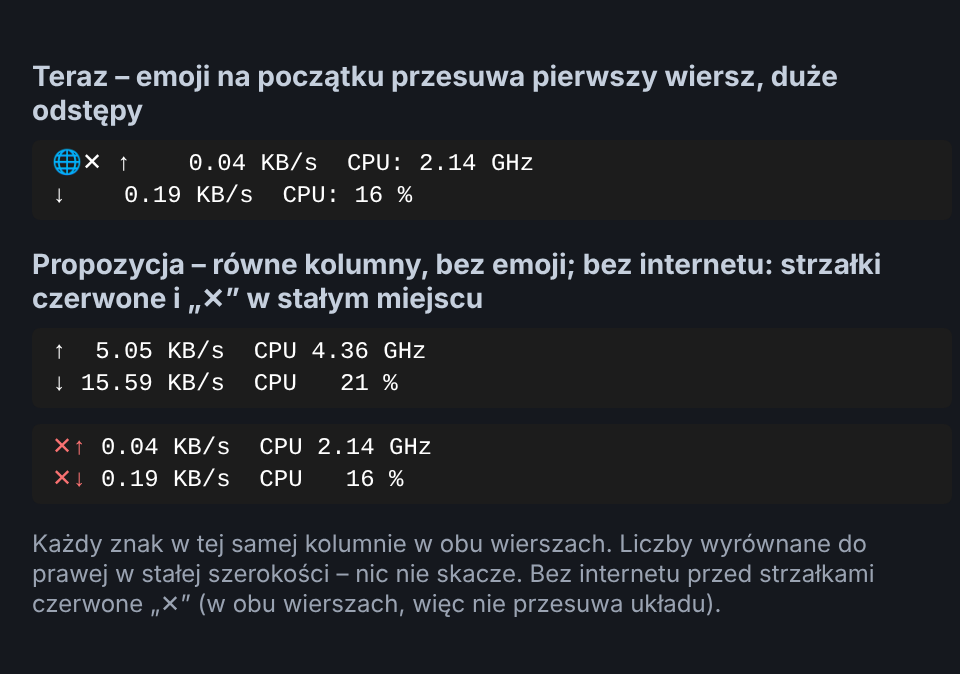
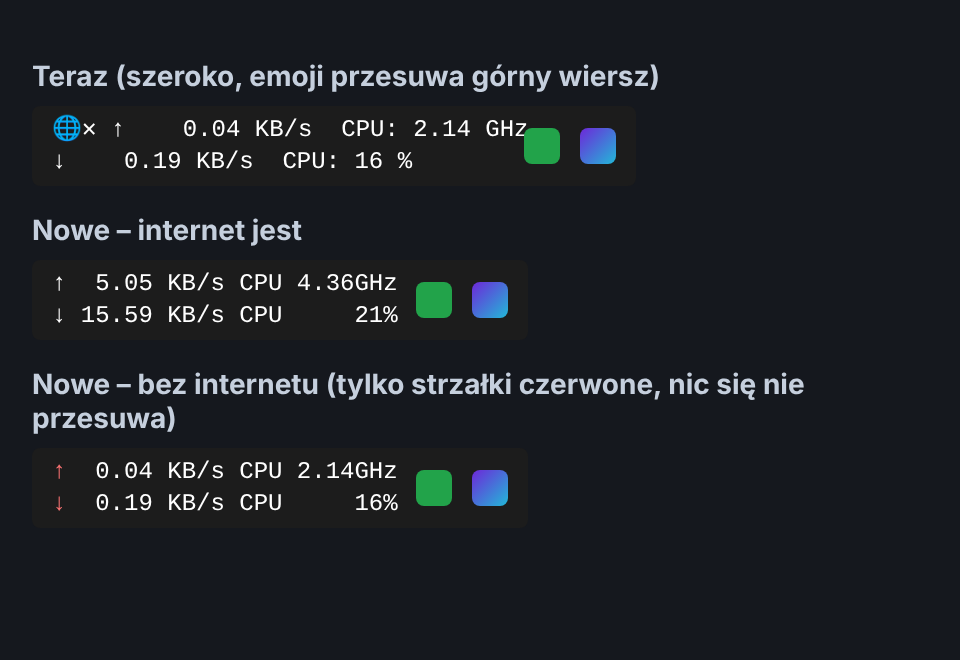
Velivo Monitor: napis na pasku węższy, równe kolumny, bez internetu tylko czerwone strzałki (górny wiersz się nie przesuwa)
Claude-Session: https://claude.ai/code/session_01RCtN5AVBSpJ7VcZz1rMB9B

Changed region(s): [[0.0312, 0.3333, 0.9375, 0.9091], [0.0312, 0.0909, 0.875, 0.2727], [0.125, 0.1818, 0.6562, 0.303]]

diff --git a/dokumentacja/makieta-monitor-pasek.html b/dokumentacja/makieta-monitor-pasek.html
@@ -1,16 +1,14 @@
 <!doctype html><html lang="pl"><head><meta charset="utf-8"><title>Pasek Monitora</title>
 <style>body{background:#15181e;color:#e8ebf0;font:14px "Segoe UI",sans-serif;margin:0;padding:16px}
-h2{font-size:14px;margin:14px 0 6px;color:#c5cfdd}.bar{background:#1c1c1c;height:40px;display:flex;align-items:center;gap:12px;padding:0 10px;width:440px;border-radius:4px}
-.t{font:12px Consolas,monospace;line-height:16px;white-space:pre;color:#fff}.r{color:#f87171}.g{color:#8b95a5}
-.ic{width:20px;height:20px;border-radius:5px}</style></head><body>
-<h2>Teraz – emoji na początku przesuwa pierwszy wiersz, duże odstępy</h2>
-<div class="bar"><div class="t">🌐✕ ↑    0.04 KB/s  CPU: 2.14 GHz
-↓    0.19 KB/s  CPU: 16 %</div></div>
-<h2>Propozycja – równe kolumny, bez emoji; bez internetu: strzałki czerwone i „✕” w stałym miejscu</h2>
-<div class="bar"><div class="t">↑  5.05 KB/s  CPU 4.36 GHz
-↓ 15.59 KB/s  CPU   21 %</div></div>
-<div style="height:8px"></div>
-<div class="bar"><div class="t"><span class="r">✕↑</span> 0.04 KB/s  CPU 2.14 GHz
-<span class="r">✕↓</span> 0.19 KB/s  CPU   16 %</div></div>
-<p style="color:#9aa3b2;font-size:12px;max-width:440px">Każdy znak w tej samej kolumnie w obu wierszach. Liczby wyrównane do prawej w stałej szerokości – nic nie skacze. Bez internetu przed strzałkami czerwone „✕” (w obu wierszach, więc nie przesuwa układu).</p>
+h2{font-size:14px;margin:14px 0 6px;color:#c5cfdd}.bar{background:#1c1c1c;height:40px;display:flex;align-items:center;gap:10px;padding:0 10px;border-radius:4px;width:fit-content}
+.t{font:12px Consolas,"Courier New",monospace;line-height:16px;white-space:pre;color:#fff;width:172px}.r{color:#f87171}.i{width:18px;height:18px;border-radius:4px;background:#22a34a}.v{width:18px;height:18px;border-radius:4px;background:linear-gradient(135deg,#6d28d9,#22b8d8)}</style></head><body>
+<h2>Teraz (szeroko, emoji przesuwa górny wiersz)</h2>
+<div class="bar"><div class="t" style="width:226px">🌐✕ ↑    0.04 KB/s  CPU: 2.14 GHz
+↓    0.19 KB/s  CPU: 16 %</div><div class="i"></div><div class="v"></div></div>
+<h2>Nowe – internet jest</h2>
+<div class="bar"><div class="t">↑  5.05 KB/s CPU 4.36GHz
+↓ 15.59 KB/s CPU     21%</div><div class="i"></div><div class="v"></div></div>
+<h2>Nowe – bez internetu (tylko strzałki czerwone, nic się nie przesuwa)</h2>
+<div class="bar"><div class="t"><span class="r">↑</span>  0.04 KB/s CPU 2.14GHz
+<span class="r">↓</span>  0.19 KB/s CPU     16%</div><div class="i"></div><div class="v"></div></div>
 </body></html>

diff --git a/velivo-monitor/Monitor.cs b/velivo-monitor/Monitor.cs
@@ -115,7 +115,7 @@ namespace VelivoMonitor
             bool light = false;
             try { using var k = Microsoft.Win32.Registry.CurrentUser.OpenSubKey(@"Software\Microsoft\Windows\CurrentVersion\Themes\Personalize"); light = (k?.GetValue("SystemUsesLightTheme") as int?) == 1; } catch (Exception) { }
             barTxt = new TextBlock { FontFamily = new FontFamily("Consolas"), FontSize = 12, Foreground = light ? Brushes.Black : Brushes.White, VerticalAlignment = VerticalAlignment.Center, Margin = new Thickness(4, 0, 4, 0) };
-            bar = new Window { Title = "Velivo Monitor – pasek", WindowStyle = WindowStyle.None, ResizeMode = ResizeMode.NoResize, AllowsTransparency = true, Background = new SolidColorBrush(Color.FromArgb(1, 0, 0, 0)), ShowInTaskbar = false, Topmost = true, Width = 226, Height = 40, Content = barTxt,   /* stała szerokość - napis nie skacze */
+            bar = new Window { Title = "Velivo Monitor – pasek", WindowStyle = WindowStyle.None, ResizeMode = ResizeMode.NoResize, AllowsTransparency = true, Background = new SolidColorBrush(Color.FromArgb(1, 0, 0, 0)), ShowInTaskbar = false, Topmost = true, Width = 172, Height = 40, Content = barTxt,   /* stała szerokość - napis nie skacze */
                 ToolTip = "Velivo Monitor – przeciągnij w lewo/prawo, aby przesunąć; prawy przycisk – menu" };
             bar.ContextMenu = Menu();
             int dragX = 0; double dragOff = 0; bool drag = false;   // przesuwanie wzdłuż paska: zapamiętany odstęp od zegara
@@ -123,6 +123,17 @@ namespace VelivoMonitor
             bar.MouseMove += (s, e) => { if (!drag) return; set["pasek-odstep"] = Math.Max(0, dragOff + (dragX - System.Windows.Forms.Cursor.Position.X)).ToString(System.Globalization.CultureInfo.InvariantCulture); PlaceBar(); };
             bar.MouseLeftButtonUp += (s, e) => { if (!drag) return; drag = false; bar.ReleaseMouseCapture(); Put("pasek-odstep", GetD("pasek-odstep", 0)); };
             bar.Show(); PlaceBar();
+        }
+        // napis na pasku: równe kolumny w obu wierszach (czcionka o stałej szerokości), bez internetu - strzałki czerwone (nic się nie przesuwa)
+        void BarText()
+        {
+            bool off = Internet.Wylaczony(); var arrow = off ? (Brush)new SolidColorBrush(Color.FromRgb(0xF8, 0x71, 0x71)) : barTxt.Foreground;
+            string r1 = Rate(Up).Trim().PadLeft(10), r2 = Rate(Down).Trim().PadLeft(10);
+            string c1 = (Ghz > 0 ? Ghz.ToString("0.00", System.Globalization.CultureInfo.InvariantCulture) + "GHz" : "–").PadLeft(7), c2 = (Cpu.ToString("0") + "%").PadLeft(7);
+            barTxt.Inlines.Clear();
+            barTxt.Inlines.Add(new System.Windows.Documents.Run("↑") { Foreground = arrow }); barTxt.Inlines.Add(new System.Windows.Documents.Run(r1 + " CPU " + c1 + "\n"));
+            barTxt.Inlines.Add(new System.Windows.Documents.Run("↓") { Foreground = arrow }); barTxt.Inlines.Add(new System.Windows.Documents.Run(r2 + " CPU " + c2));
+            bar.ToolTip = (off ? "Internet WYŁĄCZONY (sieć domowa działa)\n" : "") + "Velivo Monitor – przeciągnij w lewo/prawo, aby przesunąć; prawy przycisk – menu";
         }
         void PlaceBar()
         {
@@ -286,7 +297,7 @@ namespace VelivoMonitor
             {
                 Sample();
                 TrayIcon();
-                if (bar != null) { barTxt.Text = (Internet.Wylaczony() ? "🌐✕ " : "") + "↑ " + Rate(Up) + "  CPU: " + GhzText + "\n↓ " + Rate(Down) + "  CPU: " + Cpu.ToString("0") + " %"; PlaceBar(); }   // co sekundę z powrotem nad paskiem (kliknięcie w pasek go przykrywa)
+                if (bar != null) { BarText(); PlaceBar(); }   // co sekundę z powrotem nad paskiem (kliknięcie w pasek go przykrywa)
                 if (wid != null) { DrawGraph(); Val(wUp, "↑ ", Up, maxUp); Val(wDown, "↓ ", Down, maxDown); wCpu.Text = "CPU " + GhzText + " · " + Cpu.ToString("0") + " %"; bool off = Internet.Wylaczony(); wNet.Text = off ? "bez internetu" : "internet"; wNet.Foreground = off ? new SolidColorBrush(Color.FromRgb(0xFC, 0xA5, 0xA5)) : new SolidColorBrush(Color.FromRgb(0x86, 0xEF, 0xAC)); wNetB.Background = off ? new SolidColorBrush(Color.FromRgb(0x3A, 0x1D, 0x1D)) : new SolidColorBrush(Color.FromRgb(0x14, 0x32, 0x1F)); }
             };
             t.Start();
